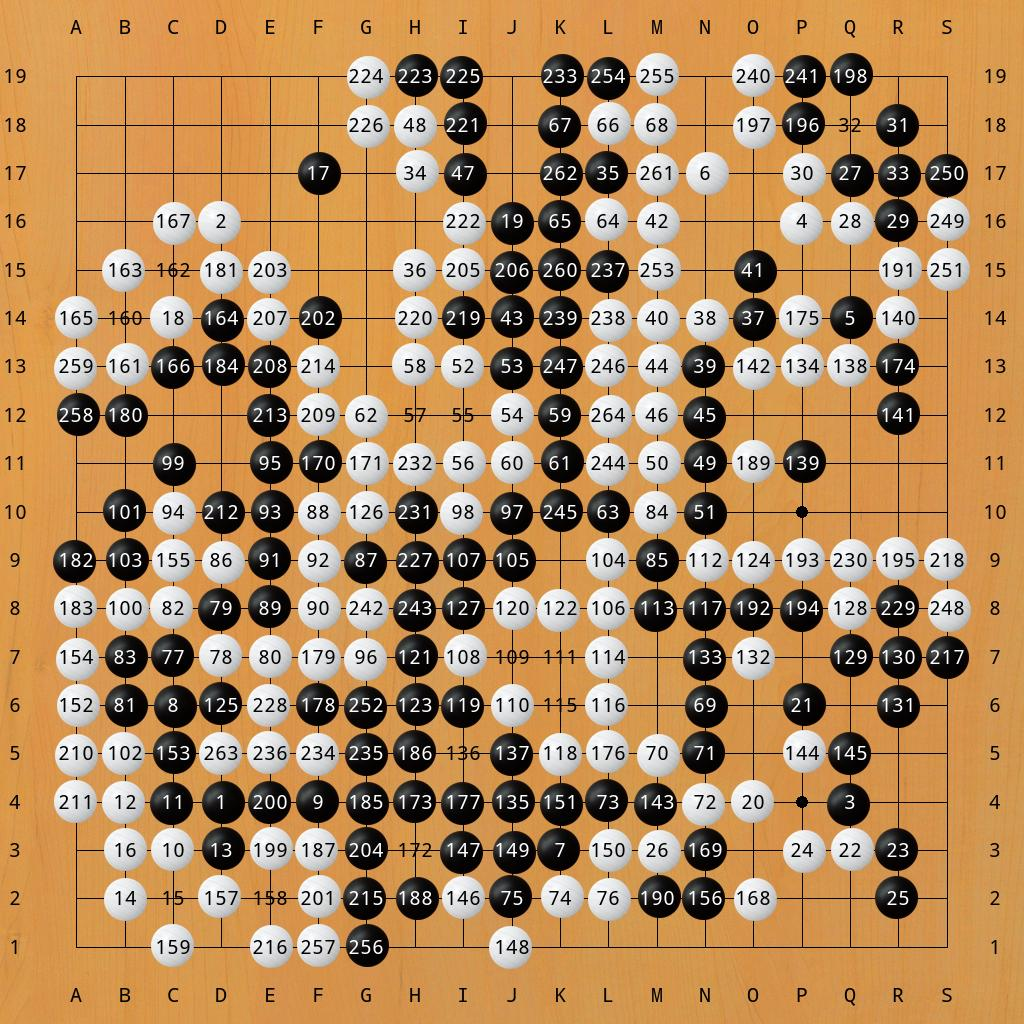
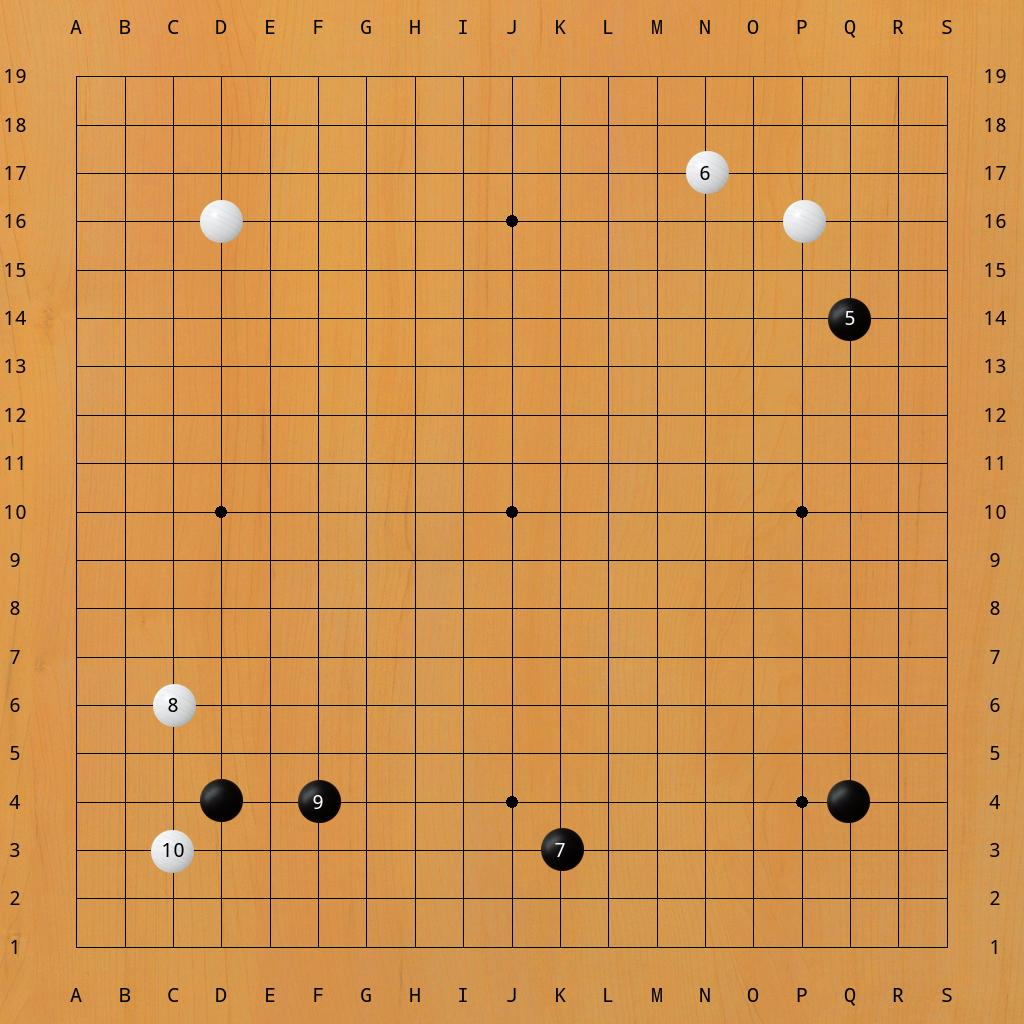
update

diff --git a/sgf2img.py b/sgf2img.py
@@ -5,9 +5,9 @@ if __name__ == '__main__':
     parser = argparse.ArgumentParser()
     parser.add_argument('sgf_name', action='store', nargs='?', help='sgf file name')
     parser.add_argument('image_name', action='store', nargs='?', help='output image file name')
+    parser.add_argument('--start_number', action='store', type=int, nargs='?')
     parser.add_argument('--start', action='store', type=int, nargs='?')
-    parser.add_argument('--from', action='store', type=int, nargs='?')
-    parser.add_argument('--to', action='store', type=int, nargs='?')
+    parser.add_argument('--end', action='store', type=int, nargs='?')
     parser.add_argument('--theme', action='store', default='real-stones', help='default theme is real-stones')
     parser.add_argument('--list_themes', action='store_true', default=False)
     args = parser.parse_args()
@@ -22,4 +22,4 @@ if __name__ == '__main__':
     else:
         theme = themes[args.theme]
         gig = GameImageGenerator(theme)
-        gig.get_game_image(args.sgf_name, start=1).save(args.image_name)
+        gig.get_game_image(args.sgf_name, start_number=args.start_number, start=args.start, end=args.end).save(args.image_name)

diff --git a/README.md b/README.md
@@ -1,19 +1,19 @@
 # usage:
 ```
-usage: sgf2img.py [-h] [--start [START]] [--from [FROM]] [--to [TO]]
-                  [--theme THEME] [--list_themes]
+usage: sgf2img.py [-h] [--start_number [START_NUMBER]] [--start [START]]
+                  [--end [END]] [--theme THEME] [--list_themes]
                   [sgf_name] [image_name]
 
 positional arguments:
-  sgf_name         sgf file name
-  image_name       output image file name
+  sgf_name              sgf file name
+  image_name            output image file name
 
 optional arguments:
-  -h, --help       show this help message and exit
+  -h, --help            show this help message and exit
+  --start_number [START_NUMBER]
   --start [START]
-  --from [FROM]
-  --to [TO]
-  --theme THEME    default theme is real-stones
+  --end [END]
+  --theme THEME         default theme is real-stones
   --list_themes
 ```
 
@@ -23,8 +23,8 @@ optional arguments:
 
 ![](gallery/real-stones.jpg)
 
-`sgf2img.py AlphaGo_AlphaGo_第一局_简体.sgf koast.jpg --theme koast`
+`sgf2img.py AlphaGo_AlphaGo_第一局_简体.sgf koast.jpg --theme koast --start_number 1`
 ![](gallery/koast.jpg)
 
-`sgf2img.py AlphaGo_AlphaGo_第一局_简体.sgf Lizzie-look.jpg --theme Lizzie-look`
+` sgf2img.py AlphaGo_AlphaGo_第一局_简体.sgf Lizzie-look.jpg --theme Lizzie-look --start 5 --end 10`
 ![](gallery/Lizzie-look.jpg)
